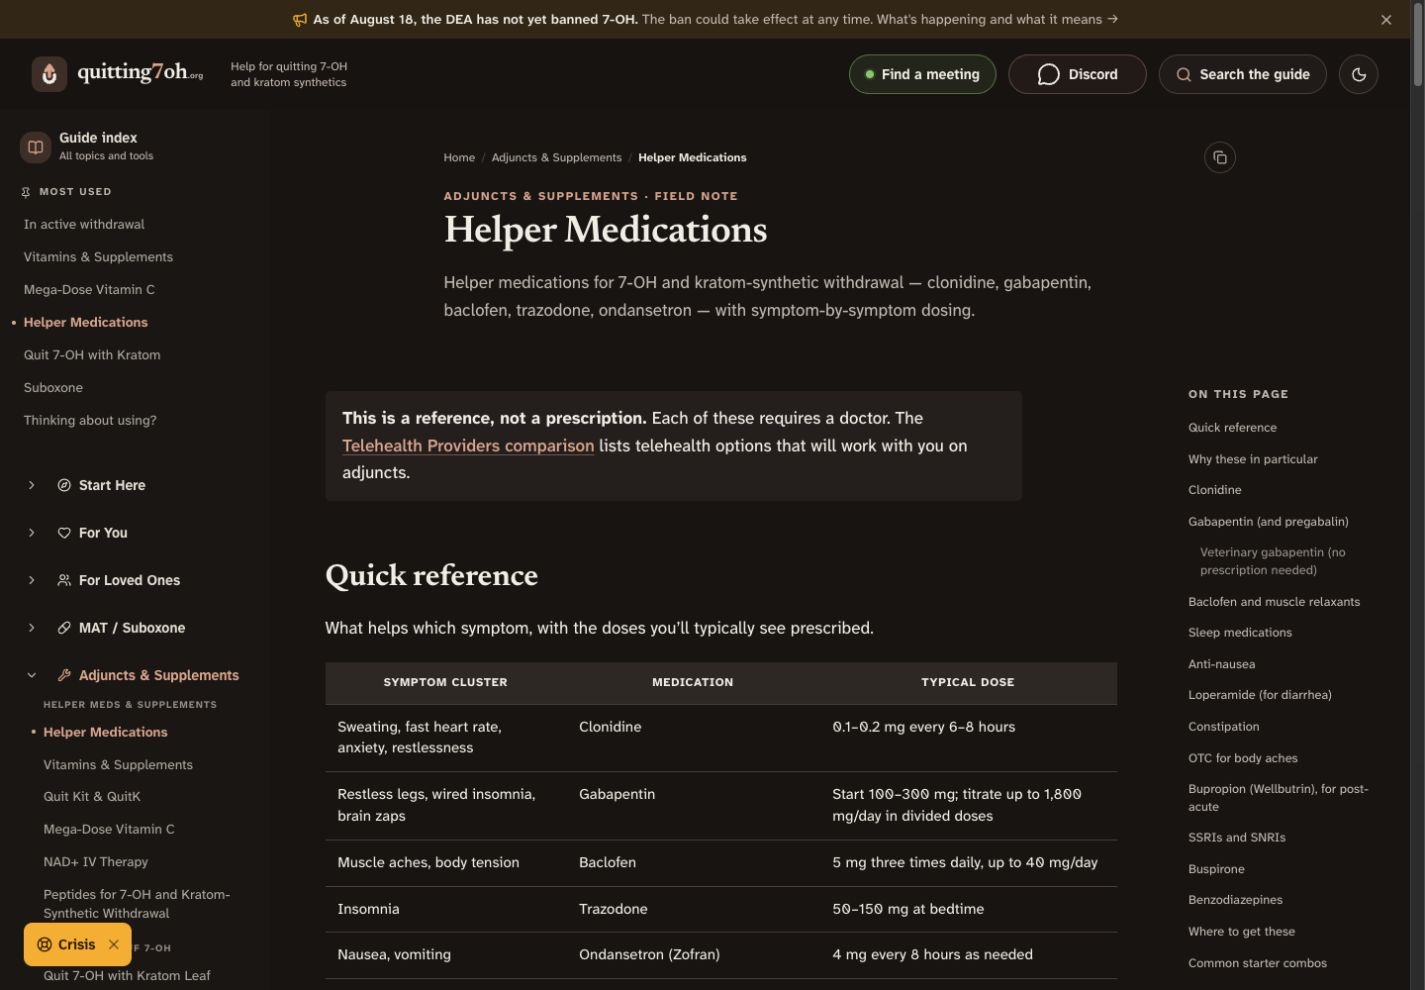
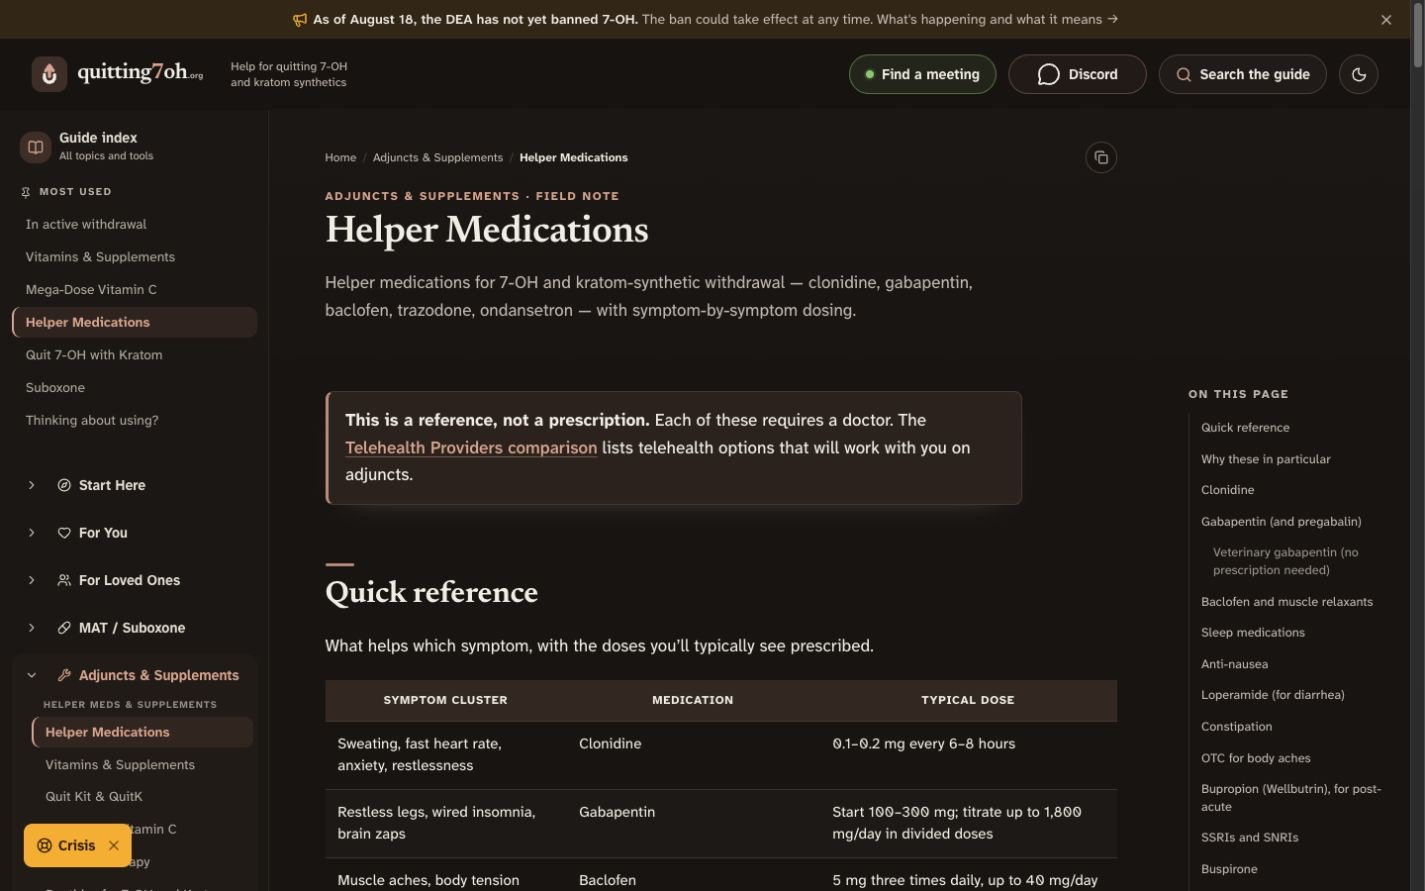
add measured depth to editorial layout

diff --git a/src/styles/global.css b/src/styles/global.css
@@ -250,6 +250,17 @@
     border: 1px solid hsl(var(--border));
     border-radius: 0.55rem;
     background: hsl(var(--card));
+    box-shadow:
+      0 1px 0 hsl(var(--foreground) / 0.035),
+      0 12px 32px -30px hsl(var(--foreground) / 0.55);
+  }
+
+  .doc-header-surface {
+    background: linear-gradient(
+      180deg,
+      hsl(var(--card) / 0.44) 0%,
+      hsl(var(--card) / 0.08) 100%
+    );
   }
 
   .quiet-grid {
@@ -290,9 +301,21 @@
   }
 
   .prose-recovery > h2 {
+    position: relative;
     margin: 3.7rem 0 1.15rem;
     font-size: clamp(1.7rem, 1.62rem + 0.35vw, 1.92rem);
     line-height: 1.18;
+  }
+
+  .prose-recovery > h2::before {
+    content: '';
+    display: block;
+    width: 1.85rem;
+    height: 0.16rem;
+    margin-bottom: 0.72rem;
+    border-radius: 999px;
+    background: hsl(var(--primary));
+    opacity: 0.82;
   }
 
   .prose-recovery > h3 {
@@ -413,10 +436,12 @@
   .prose-recovery :where(blockquote) {
     max-width: 44rem;
     margin: 1.4rem 0;
-    border: 0;
-    border-radius: 0.35rem;
-    background: hsl(var(--muted) / 0.58);
-    padding: 0.9rem 1.1rem;
+    border: 1px solid hsl(var(--primary) / 0.16);
+    border-left: 0.2rem solid hsl(var(--primary) / 0.82);
+    border-radius: 0.5rem;
+    background: hsl(var(--accent) / 0.52);
+    box-shadow: 0 12px 30px -28px hsl(var(--foreground) / 0.58);
+    padding: 0.95rem 1.1rem;
     color: hsl(var(--foreground));
     font-style: normal;
     font-weight: 470;
@@ -459,7 +484,7 @@
   }
 
   .prose-recovery :where(th) {
-    background: hsl(var(--muted));
+    background: hsl(var(--accent) / 0.72);
     color: hsl(var(--foreground));
     font-size: 0.74rem;
     font-weight: 760;
@@ -468,16 +493,26 @@
   }
 
   .prose-recovery :where(th, td) {
-    border-bottom: 1px solid hsl(var(--border));
+    border-bottom: 1px solid hsl(var(--border) / 0.72);
     padding: 0.75rem 0.8rem;
     vertical-align: top;
+  }
+
+  .prose-recovery :where(tbody tr:nth-child(even)) {
+    background: hsl(var(--muted) / 0.26);
+  }
+
+  .prose-recovery :where(tbody tr:last-child td) {
+    border-bottom: 0;
   }
 
   .prose-recovery .table-wrapper {
     max-width: 100%;
     overflow-x: auto;
     border: 1px solid hsl(var(--border));
-    border-radius: 0.75rem;
+    border-radius: 0.55rem;
+    background: hsl(var(--card) / 0.68);
+    box-shadow: 0 12px 30px -30px hsl(var(--foreground) / 0.6);
   }
 
   .heading-anchor {
@@ -518,9 +553,10 @@
   .callout-info,
   .callout-medical {
     margin: 1.75rem 0;
-    border: 0;
-    border-radius: 0.35rem;
+    border: 1px solid hsl(var(--border) / 0.72);
+    border-radius: 0.5rem;
     padding: 1rem 1.1rem;
+    box-shadow: 0 12px 30px -28px hsl(var(--foreground) / 0.55);
   }
 
   .callout-warning {

diff --git a/src/components/AppSidebar.tsx b/src/components/AppSidebar.tsx
@@ -40,10 +40,10 @@ function PageLink({ item, currentPath }: { item: SidebarItem; currentPath: strin
         href={item.href}
         aria-current={active ? 'page' : undefined}
         className={cn(
-          'relative block rounded-md px-3 py-1.5 text-[0.86rem] leading-snug transition-colors',
+          'relative block rounded-md border-l-2 px-3 py-1.5 text-[0.86rem] leading-snug transition-colors',
           active
-            ? 'font-bold text-primary before:absolute before:left-0 before:top-1/2 before:size-1 before:-translate-y-1/2 before:rounded-full before:bg-primary'
-            : 'text-sidebar-foreground/72 hover:bg-sidebar-accent/60 hover:text-sidebar-foreground',
+            ? 'border-primary bg-sidebar-accent/55 font-bold text-primary'
+            : 'border-transparent text-sidebar-foreground/72 hover:bg-sidebar-accent/45 hover:text-sidebar-foreground',
         )}
       >
         {item.title}
@@ -94,7 +94,7 @@ function Navigation({ categories, pinned, currentPath }: Props) {
                   Reference library
                 </p>
               )}
-              <section>
+              <section className={cn(current && 'rounded-lg bg-sidebar-accent/18')}>
                 <div className="flex items-center gap-1.5 p-1">
                   <button
                     type="button"
@@ -185,7 +185,7 @@ export function AppSidebar(props: Props) {
   }
 
   return (
-    <aside aria-label="Guide navigation" className="hidden w-[17rem] shrink-0 bg-sidebar/45 lg:block">
+    <aside aria-label="Guide navigation" className="hidden w-[17rem] shrink-0 bg-sidebar/58 shadow-[inset_-1px_0_0_hsl(var(--sidebar-border)/0.42)] lg:block">
       <div ref={desktopRef} className="scrollbar-none sticky top-[4.5rem] max-h-[calc(100vh-4.5rem)] overflow-y-auto overscroll-contain">
         <Navigation {...props} />
       </div>

diff --git a/src/components/Callout.tsx b/src/components/Callout.tsx
@@ -14,25 +14,25 @@ const styles = {
   info: {
     Icon: Info,
     title: 'Note',
-    className: 'bg-muted/65 text-foreground [&_.callout-icon]:text-primary',
+    className: 'border-primary/18 bg-accent/55 text-foreground [&_.callout-icon]:text-primary',
   },
   warning: {
     Icon: AlertTriangle,
     title: 'Safety note',
-    className: 'bg-signal/10 text-foreground [&_.callout-icon]:text-signal',
+    className: 'border-signal/25 bg-signal/10 text-foreground [&_.callout-icon]:text-signal',
   },
   medical: {
     Icon: Stethoscope,
     title: 'Medical context',
-    className: 'bg-destructive/8 text-foreground [&_.callout-icon]:text-destructive',
+    className: 'border-destructive/18 bg-destructive/8 text-foreground [&_.callout-icon]:text-destructive',
   },
 } as const;
 
 export function Callout({ type = 'info', title, children }: Props) {
   const { Icon, title: fallback, className } = styles[type];
   return (
-    <aside className={cn('not-prose my-7 grid grid-cols-[auto_minmax(0,1fr)] gap-3 rounded px-4 py-3.5', className)}>
-      <span className="callout-icon inline-flex size-6 items-center justify-center">
+    <aside className={cn('not-prose my-7 grid grid-cols-[auto_minmax(0,1fr)] gap-3 rounded-md border px-4 py-3.5 shadow-[0_12px_30px_-28px_hsl(var(--foreground)/0.55)]', className)}>
+      <span className="callout-icon inline-flex size-7 items-center justify-center rounded-md bg-background/55">
         <Icon className="size-4" aria-hidden="true" />
       </span>
       <div className="min-w-0">

diff --git a/src/components/Toc.tsx b/src/components/Toc.tsx
@@ -110,7 +110,7 @@ export function Toc({ headings }: Props) {
       </p>
       <ul
         ref={listRef}
-        className="scrollbar-none max-h-[calc(100vh-12rem)] space-y-0.5 overflow-y-auto overscroll-contain"
+        className="scrollbar-none max-h-[calc(100vh-12rem)] space-y-0.5 overflow-y-auto overscroll-contain border-l border-border/65 pl-3"
       >
         {filtered.map((h) => (
           <li key={h.slug}>
@@ -118,9 +118,9 @@ export function Toc({ headings }: Props) {
               href={`#${h.slug}`}
               aria-current={active === h.slug ? 'location' : undefined}
               className={cn(
-                'block py-1.5 text-[0.8rem] leading-snug text-muted-foreground transition-colors hover:text-foreground',
+                'relative block py-1.5 text-[0.8rem] leading-snug text-muted-foreground transition-colors hover:text-foreground',
                 h.depth === 3 && 'pl-3 text-muted-foreground/75',
-                active === h.slug && 'font-bold text-primary',
+                active === h.slug && 'font-bold text-primary before:absolute before:-left-[0.8125rem] before:top-1.5 before:bottom-1.5 before:w-0.5 before:rounded-full before:bg-primary',
               )}
             >
               {h.text}

diff --git a/REDESIGN.md b/REDESIGN.md
@@ -29,9 +29,10 @@ repeating each category description.
   16px on phones, with a 1.72 line height. Dose and schedule data use tabular
   numerals.
 - Content-page titles run from 2.05rem to 2.4rem. Article section headings stay
-  near 1.9rem; 1.16rem sans-serif subsections create a second, clearly
-  different level through family, weight, and spacing rather than decorative
-  rules or markers. The larger display scale is reserved for the homepage.
+  near 1.9rem and use one short clay stroke as an editorial section cue;
+  1.16rem sans-serif subsections create a clearly different level through
+  family, weight, and spacing. The larger display scale is reserved for the
+  homepage.
 - Lists use familiar disc and decimal markers with restrained burnt-clay color.
   The first pass's ring bullets and zero-padded counters were removed because
   they drew attention away from the text.
@@ -59,8 +60,10 @@ the banner, floating crisis control, and high-risk callouts.
 
 Spacing follows a four-pixel base with larger editorial jumps between reading
 sections. Controls have a minimum height of 44px. Object containers use a low
-radius and a quiet one-pixel boundary; navigation, metadata, and topic indexes
-use alignment and whitespace instead of card chrome.
+radius, a quiet one-pixel boundary, and a barely visible grounding shadow;
+navigation, metadata, and topic indexes use alignment and whitespace instead
+of card chrome. Selected navigation receives a narrow clay edge and low-contrast
+wash so state is obvious without turning every link into a pill.
 
 Page headers use short vertical padding and share the reading column's measure.
 The footer uses a tonal paper surface in both themes instead of reversing to a
@@ -75,11 +78,12 @@ header offset; the tracker also adjusts near the end of a page so short final
 sections are not skipped.
 
 Wide data tables stay tables. Their containing card scrolls on the horizontal
-axis, keeps the day column visible, and uses tabular numerals. Calculators use
-the same field, summary, chart, and schedule treatments as the meeting tools.
-Callouts use a 44rem measure, flat borderless tints, and tighter internal list
-rhythm, allowing dense summaries to stay
-compact without shrinking body type.
+axis, keeps the day column visible, uses tabular numerals, and separates rows
+with restrained alternating paper tones. Calculators use the same field,
+summary, chart, and schedule treatments as the meeting tools. Callouts use a
+44rem measure, a semantic accent edge, a light surface tint, and tighter
+internal list rhythm, allowing dense summaries to stay compact without
+shrinking body type.
 
 ## Components
 
